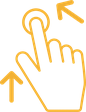
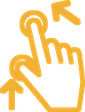
fix(hint): Joe's updated pinch drawing, matched to the mouse's weight
The drawing's strokes land at 0.49 css px against the mouse outline's
2.33 - nearly five times apart, which is why they never looked like a
set. The hand is thickened as far as it will go before the fingers merge
and the lower touch ring fills in, and the mouse comes down to meet it.
Both scale with the glyph box, so they stay matched at the desktop size.

diff --git a/src/lib/components/ZoomHint.svelte b/src/lib/components/ZoomHint.svelte
@@ -28,10 +28,18 @@
 {#if ready && !done}
 	<div class="hint" role="status" transition:fade={{ duration: 260 }}>
 		<div class="glyphs" aria-hidden="true">
-			<!-- A mouse, wheel picked out in the middle. -->
+			<!--
+				A mouse, wheel picked out in the middle. Its stroke is set to
+				land at the same width on screen as the drawn hand's - 0.84 in
+				a 24-unit box against the hand's 0.98 css px in a 28px one. The
+				hand is fine line art and cannot be thickened to meet a chunky
+				outline without its fingers merging, so the outline came down
+				to meet it instead. Both scale with the glyph box, so they stay
+				matched at the smaller desktop size too.
+			-->
 			<svg class="glyph mouse" viewBox="0 0 24 24">
-				<rect x="7" y="2.5" width="10" height="19" rx="5" fill="none" stroke="currentColor" stroke-width="2" />
-				<line x1="12" y1="6.5" x2="12" y2="10.5" stroke="currentColor" stroke-width="2" stroke-linecap="round" />
+				<rect x="7" y="2.5" width="10" height="19" rx="5" fill="none" stroke="currentColor" stroke-width="0.84" />
+				<line x1="12" y1="6.5" x2="12" y2="10.5" stroke="currentColor" stroke-width="0.84" stroke-linecap="round" />
 			</svg>
 			<!--
 				Joe's own drawing, recoloured to gold and keyed off its darkness
